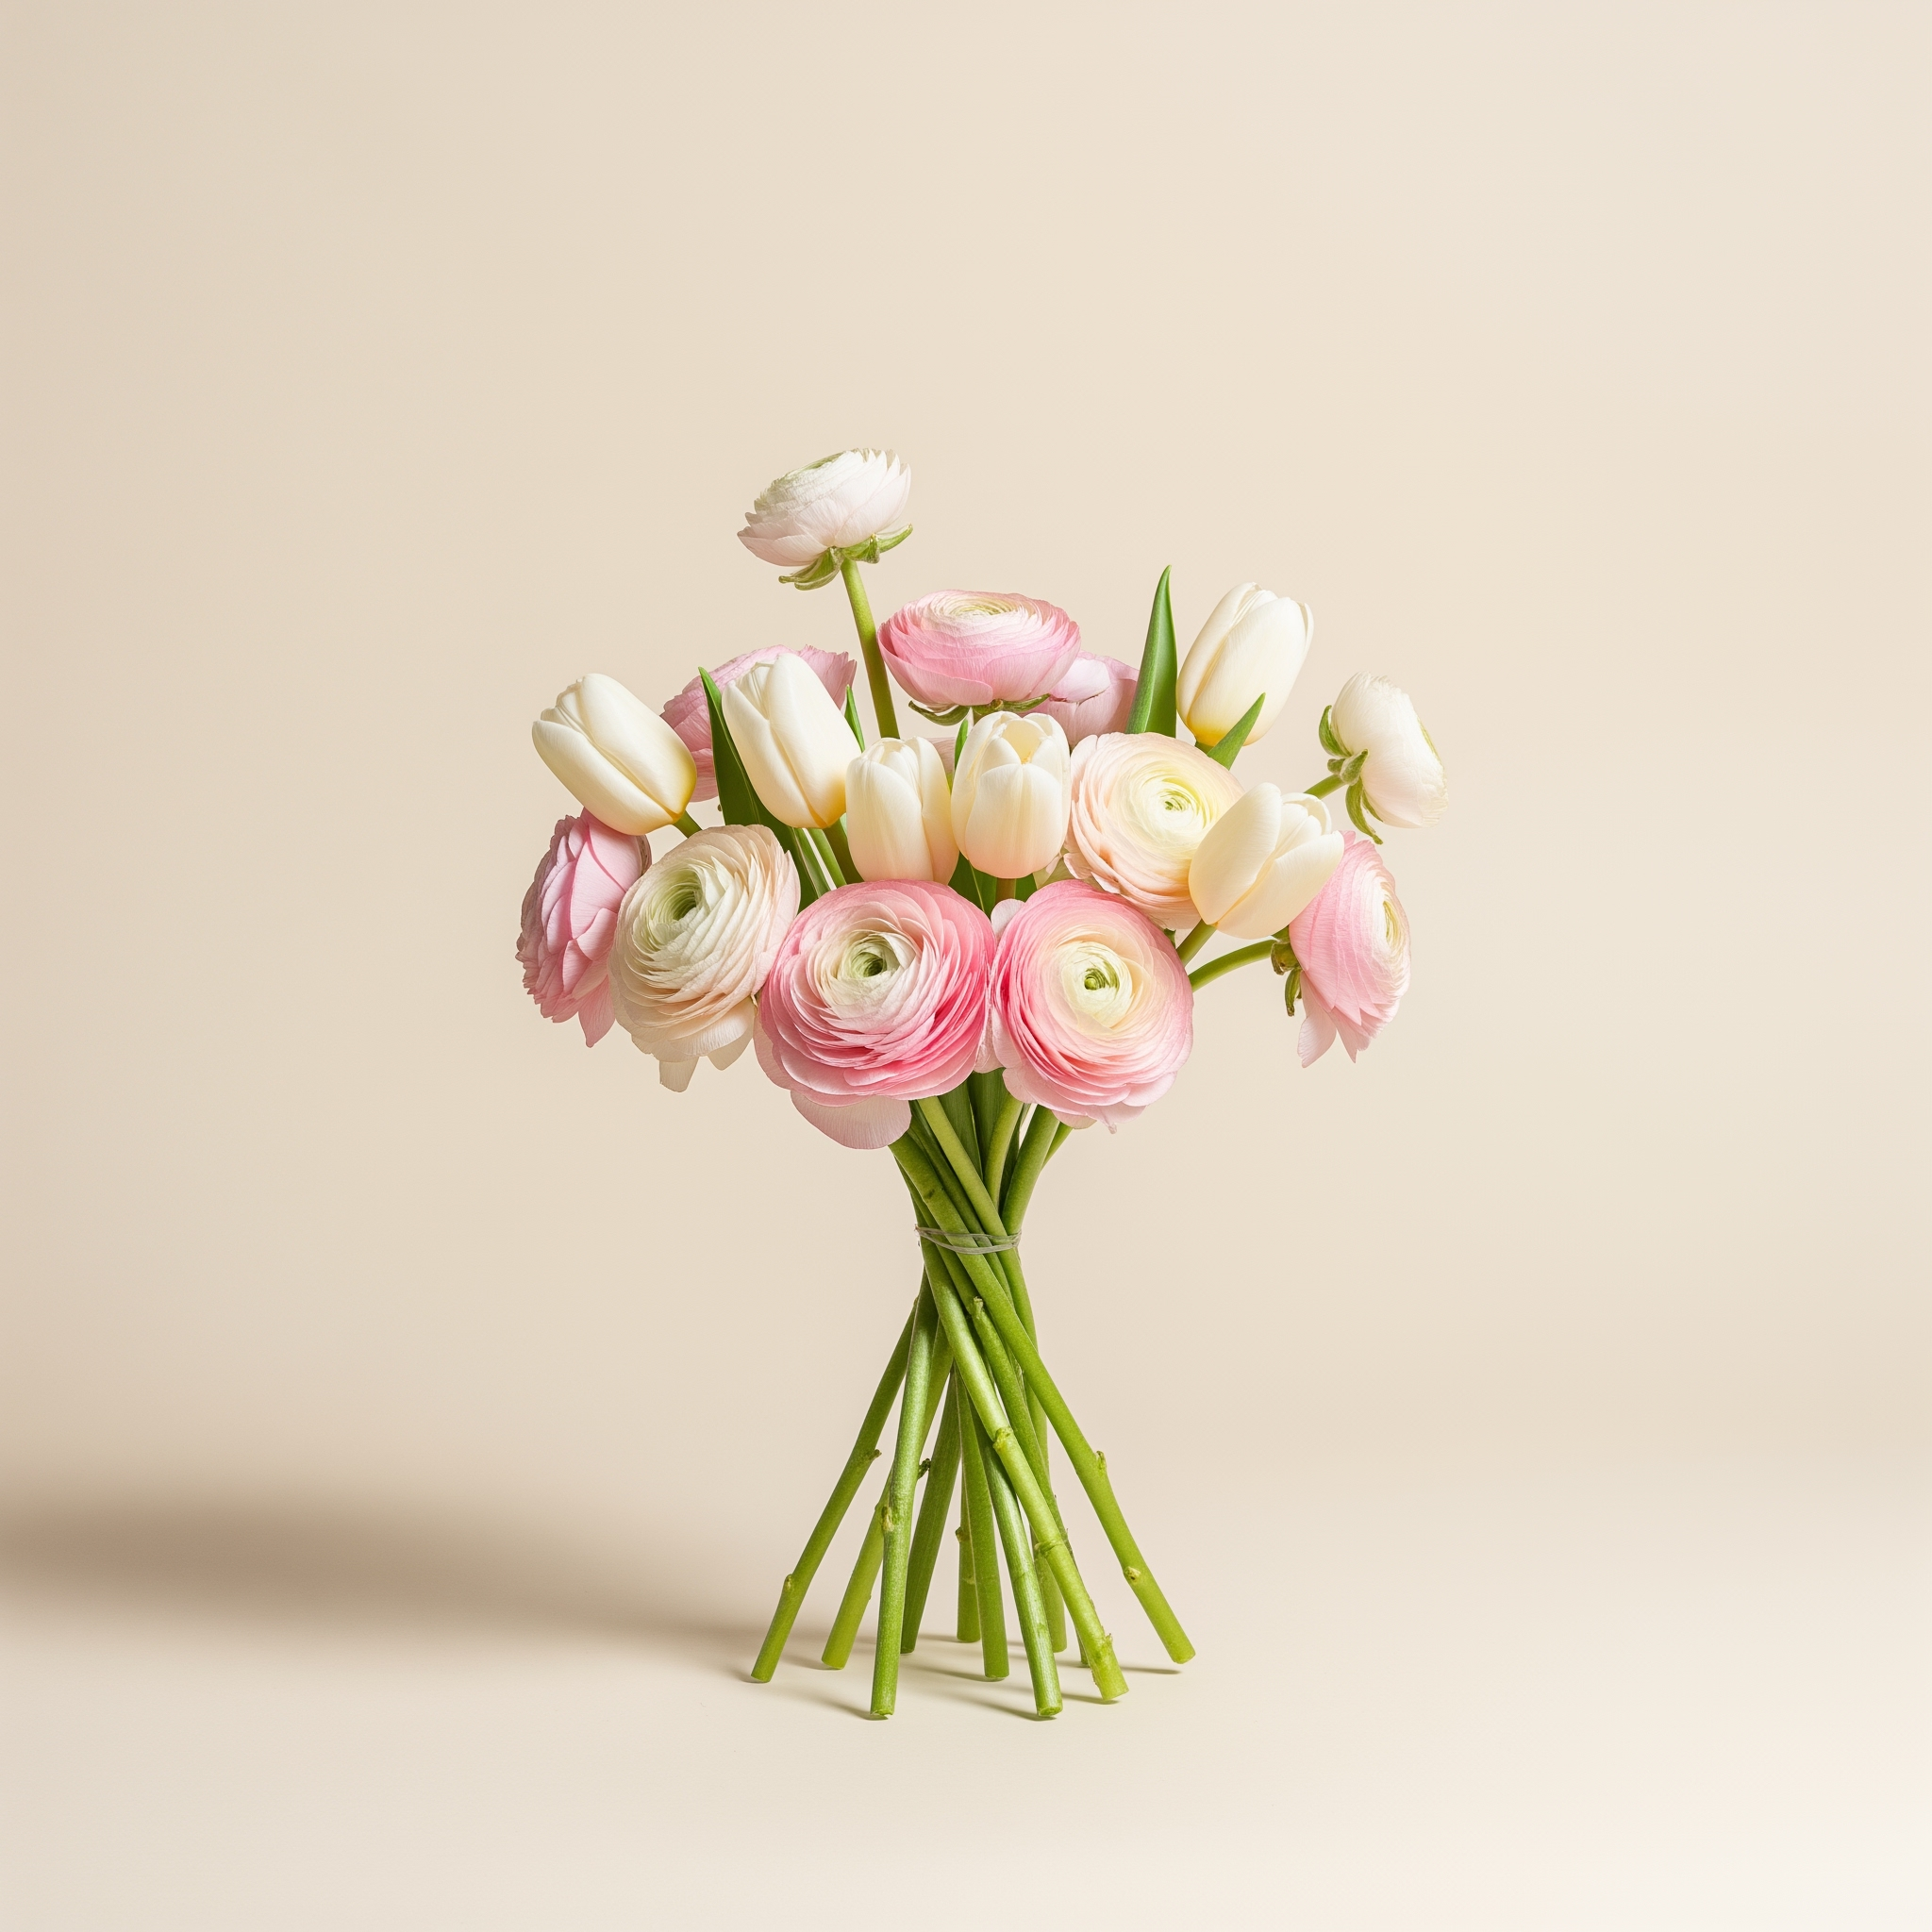
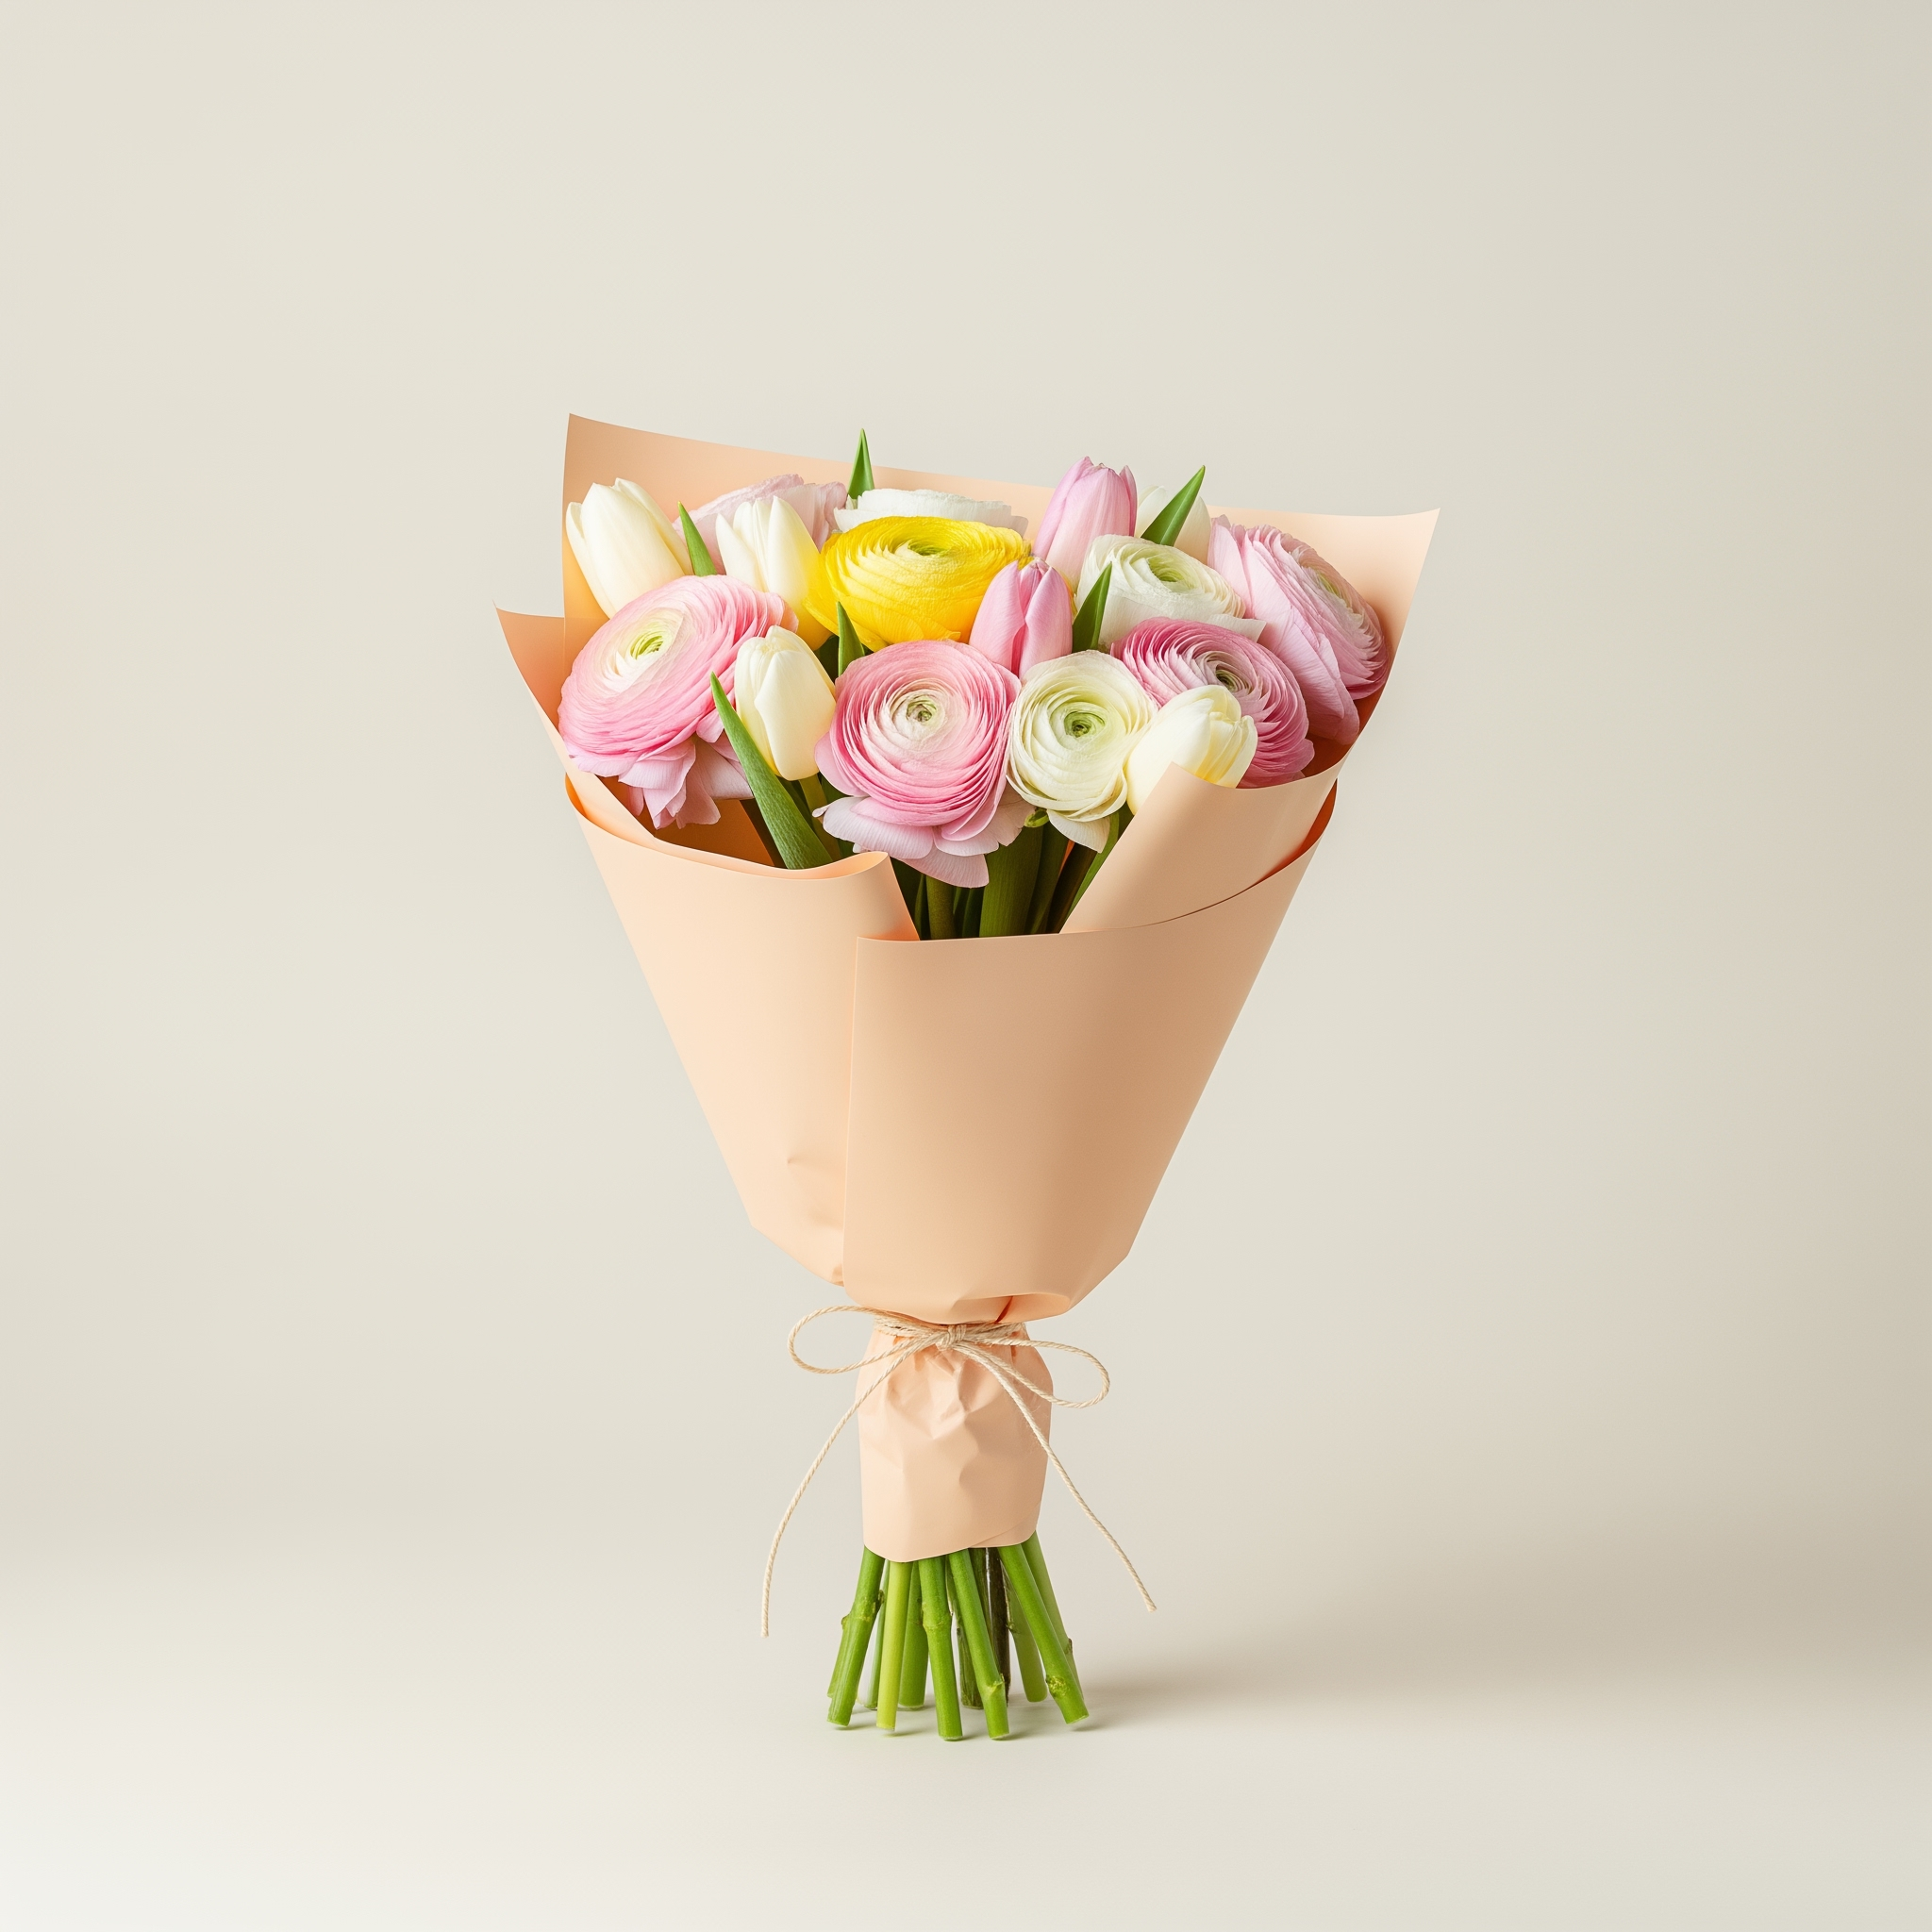
상품 보정 — 꽃다발 포장지 추가(단일프레임), 테라리움 단독(유리돔)
- product-1/2: 무지 포장지로 감싼 꽃다발, 콜라주 방지 단일 프레임
- product-8: terrarium 단어가 개/나무/사람으로 폭주 → 유리 벨자(cloche)로 재정의, 단독 오브제
- CLEAN 문구를 텍스트/카드/리본만 차단하도록 완화(무지 포장지 허용)
- negativePrompt에 콜라주/동물/인물 배제 추가

https://claude.ai/code/session_01PKG67JpzLya5ysJX1NfHtS

diff --git a/scripts/generate-images.ts b/scripts/generate-images.ts
@@ -62,6 +62,8 @@ const NEGATIVE =
   "card, paper card, message card, greeting card, note card, label, sticker, tag, price tag, " +
   "printed ribbon, ribbon with text, ribbon, sash, paper sash, fan-shaped sash, vertical banner, bow, ribbon bow, " +
   "sign, signboard, message board, banner, poster, watermark, logo, stamp, " +
+  "collage, grid, multiple panels, split image, diptych, triptych, picture-in-picture, " +
+  "dog, cat, animal, pet, portrait, face, " +
   "person, people, human, hand, hands, fingers, arm, blurry, low quality, distorted";
 
 const SPECS: Spec[] = [
@@ -146,13 +148,19 @@ const SPECS: Spec[] = [
     file: "product-1",
     aspectRatio: "1:1",
     kind: "product",
-    prompt: "A signature spring bouquet of pastel ranunculus and tulips, soft and romantic. " + STYLE,
+    prompt:
+      "A single full-frame studio product photograph of one spring bouquet of pastel ranunculus and tulips, " +
+      "wrapped in plain unprinted matte paper in a soft solid color and tied simply, one bouquet centered in a single frame. " +
+      STYLE,
   },
   {
     file: "product-2",
     aspectRatio: "1:1",
     kind: "product",
-    prompt: "A small daily mini bouquet, dainty and casual, easy gift size. " + STYLE,
+    prompt:
+      "A small daily mini bouquet, dainty and casual, easy gift size, " +
+      "wrapped in plain unprinted matte paper in a soft solid color. " +
+      STYLE,
   },
   {
     file: "product-3",
@@ -200,7 +208,11 @@ const SPECS: Spec[] = [
     file: "product-8",
     aspectRatio: "1:1",
     kind: "product",
-    prompt: "An aesthetic glass terrarium miniature garden with moss and small props. " + STYLE,
+    prompt:
+      "A close-up indoor studio product photograph of one small clear glass bell jar cloche standing on a plain surface, " +
+      "with green moss, tiny ferns and small pebbles arranged inside the glass jar. " +
+      "The single glass jar fills the frame, indoor product shot, no flowers, no people, no tree, no outdoor scene. " +
+      STYLE,
   },
 ];
 
@@ -252,8 +264,8 @@ async function generateOne(spec: Spec, token: string): Promise<Buffer> {
 
   // 상품 사진은 동일 배경(BACKGROUND) + 장식/글자 제거 문구를 덧붙여 톤 통일·텍스트 억제
   const CLEAN =
-    "Only fresh flowers and green leaves, simply presented, with no ribbon, no bow, no sash, " +
-    "no card, no message card, no label, no tag, and no text or letters anywhere in the image.";
+    "Presented cleanly with no ribbon, no bow, no sash, no card, no message card, no label, no tag, " +
+    "and absolutely no text or letters anywhere in the image. Any wrapping paper must be plain and unprinted.";
   const promptText =
     spec.kind === "product" ? `${spec.prompt} ${CLEAN} ${BACKGROUND}` : spec.prompt;
 